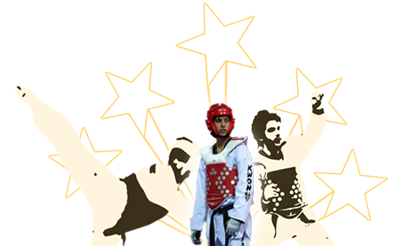
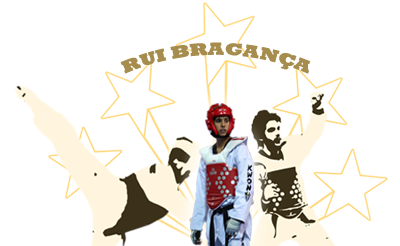
AJTG theme is now final!

Changed region(s): [[0.3, 0.1707, 0.78, 0.313]]

diff --git a/site_files/public/stylesheets/themes/ajtg/frontend.css b/site_files/public/stylesheets/themes/ajtg/frontend.css
@@ -1,1 +1,1 @@
-div.textile-body{font-size:13px;margin:0 10px}div.textile-body a{border-bottom:2px solid #333}div.textile-body h1{font-size:28px}div.textile-body h2{font-size:24px}div.textile-body h3{font-size:20px}div.textile-body h4{font-size:16px}div.textile-body h5{font-size:14px}div.textile-body h1,div.textile-body h2,div.textile-body h3,div.textile-body h4,div.textile-body h5{margin:0 0 15px}div.textile-body h1 a:hover,div.textile-body h2 a:hover,div.textile-body h3 a:hover,div.textile-body h4 a:hover,div.textile-body h5 a:hover{border-bottom:3px solid #333}div.textile-body p{margin:0 0 15px;text-align:justify}div.textile-body table{font-size:13px;line-height:25px;border-collapse:collapse;width:100%}div.textile-body table td{border-bottom:1px solid #ddd;padding:5px 10px;margin:0 10px}div.textile-body table th{background-color:#333;border-bottom:solid 1px #ddd;font-weight:bold;padding:5px 10px;margin:0 10px;color:#fff;text-shadow:0 1px 0 #000}div.textile-body table tr:first-child{border-top:1px solid #ddd}div.textile-body strong{font-weight:bold}div.textile-body cite,div.textile-body em{font-style:italic}div.textile-body blockquote{margin:30px;color:#777;font-style:italic}div.textile-body ul{list-style-type:disc;list-style-position:inside}div.textile-body ol{list-style-type:decimal;list-style-position:inside}div.textile-body li{margin:10px 30px}div.textile-body pre,div.textile-body code,div.textile-body tt{font-family:"lucida console",Monospace}body{background-color:#ffb600;background-image:url("/stylesheets/themes/ajtg/images/paper.png");background-repeat:repeat}h2.title,h3.archives-month-title{margin:0 0 15px}h2.title a:hover,h3.archives-month-title a:hover{border-bottom:3px solid #333}hr{background-color:#ddd;border:none;clear:left;height:1px;margin:15px 0}div#header{height:246px;margin:10px auto 0;width:980px}div#logo{background:url("/stylesheets/themes/ajtg/images/ajtg_logo.png") no-repeat;float:left;height:155px;margin:55px 0 0;width:348px}div#stars{background-image:url("/stylesheets/themes/ajtg/images/stars.png");background-repeat:no-repeat;float:right;height:246px;width:386px}div#stars div#left{float:left;height:246px;width:190px}div#stars div#center{float:left;height:246px;width:50px}div#stars div#right{float:left;height:246px;width:141px}div#wrapper{background-color:#fff;border:1px solid #444;margin:auto;width:980px}div#menu{background:url("/stylesheets/themes/ajtg/images/belt.png") 0 0 no-repeat;height:56px;left:-15px;position:relative;top:-5px;width:1012px}div#menu div#navigation{float:left;padding:18px 14px}div#menu div#navigation ul li{display:inline}div#menu div#navigation ul li a{color:#fff;font-weight:bold;text-shadow:1px 2px 0 #000;border:none;padding:12px 20px}div#menu div#navigation ul li a:hover{color:#ffd700}div#menu span.options{color:#fff;float:right;font-weight:bold;padding:18px 34px;text-shadow:1px 2px 0 #000}div#menu span.options a{color:#fff}div#menu span.options a:hover{color:#ffd700}div#tag-cloud{background-color:#fddf87;border:1px solid #fcd254;margin:0 20px 20px 780px;min-height:100px;padding:10px 25px;position:relative;top:15px;-moz-border-radius:2px 2px 2px 2px;-webkit-border-radius:2px 2px 2px 2px;border-radius:2px 2px 2px 2px;behavior:url("/stylesheets/pie.htc")}div#tag-search-bar{margin:0 0 15px}div#tag-search-bar div#tags{margin:10px}div#content.single{float:left;width:940px;margin:20px 20px 30px}div#content.double{float:left;width:745px;margin:20px 20px 30px}div.content-body{margin:0 10px}div#user-info,div#user-invite{margin:15px 10px}div#footer{margin:25px}div#footer a:hover{border-bottom:2px solid #333}div#flash{background-image:url("/images/dark_transparency.png");border-top:1px solid #222;bottom:0;left:0;padding:15px 0;position:fixed;width:100%;z-index:1}div#flash div.message{margin:0 0 0 30px}div#flash div.message p{margin:0 70px;padding:20px}div#flash div.message.error{background:url("/stylesheets/themes/nebaum/images/flash/error.png") no-repeat 0 50%}div#flash div.message.warning{background:url("/stylesheets/themes/nebaum/images/flash/warning.png") no-repeat 0 50%}div#flash div.message.info,div#flash div.message.notice{background:url("/stylesheets/themes/nebaum/images/flash/notice.png") no-repeat 0 50%}ul.list li{margin:15px 0}dl.list{display:inline-block}dl.list dd{float:left;padding:1px 0;margin:5px 0}dl.list dt{clear:left;color:#555;float:left;font-weight:bold;padding:0;margin:5px 0;width:150px}div#archives{float:right;margin:10px}div#archives a:hover{border-bottom:3px solid #333}ul.archives-month{margin:0 0 0 10px}ul.archives-month li{margin:0 0 5px}ul.archives-month li a:hover{border-bottom:2px solid #333}div.social-buttons{float:right;margin:0 10px 10px}div.social-buttons div.addthis_toolbox{display:inline}div#announcements{border:1px solid #444;overflow:hidden;margin:20px auto;position:relative;width:940px;-moz-border-radius:2px 2px 2px 2px;-webkit-border-radius:2px 2px 2px 2px;border-radius:2px 2px 2px 2px;behavior:url("/stylesheets/pie.htc")}div#announcements a:hover{border:none}div.announcement-tail{display:none}div#announcement-numbers{background:url("/images/dark_transparency.png");cursor:default;padding:10px 10px 13px 13px;position:absolute;left:0;-moz-border-radius:0 0 2px 0;-webkit-border-radius:0 0 2px 0;border-radius:0 0 2px 0;behavior:url("/stylesheets/pie.htc")}div.announcement img{height:250px;width:940px}div.announcement-text{background:url("/images/dark_transparency.png");bottom:0;padding:14px 12px 12px 14px;position:absolute;right:0;width:300px;-moz-border-radius:2px 0 0 0;-webkit-border-radius:2px 0 0 0;border-radius:2px 0 0 0;behavior:url("/stylesheets/pie.htc")}div.announcement-text p.title{padding:0 0 15px}div.post{margin:0 0 30px}div.post-image{float:left;margin:0 15px 5px 0}div.meta{clear:both;background-color:#eee;margin:0 10px;padding:10px;-moz-border-radius:2px 2px 2px 2px;-webkit-border-radius:2px 2px 2px 2px;border-radius:2px 2px 2px 2px;behavior:url("/stylesheets/pie.htc")}div.meta a:hover{border-bottom:2px solid #333}div.avatar{float:left;margin-right:20px}div.avatar img{border:1px solid #999}span.comment-meta{clear:both;display:block}div.new-comment{padding:0 15px}ol#comment-list{margin:20px 0}ol#comment-list p{padding:15px 0 0 72px}button,a.button,input.button{background-color:#e9e9e9;border:1px solid #aaa;cursor:pointer;float:left;background:-webkit-gradient(linear, left top, left bottom, from(#f9f9f9), to(#e9e9e9));background:-webkit-linear-gradient(#f9f9f9, #e9e9e9);background:-moz-linear-gradient(top, #f9f9f9, #e9e9e9);background:-o-linear-gradient(#f9f9f9, #e9e9e9);filter:progid:DXImageTransform.Microsoft.gradient(startColorstr=$start-color, endColorstr=$end-color);-ms-filter:"progid:DXImageTransform.Microsoft.gradient(startColorstr=#f9f9f9, endColorstr=#e9e9e9)";background:linear-gradient(#f9f9f9, #e9e9e9);-moz-border-radius:4px 4px 4px 4px;-webkit-border-radius:4px 4px 4px 4px;border-radius:4px 4px 4px 4px;behavior:url("/stylesheets/pie.htc")}button:active,a.button:active,input.button:active{background:-webkit-gradient(linear, left top, left bottom, from(#e9e9e9), to(#f9f9f9));background:-webkit-linear-gradient(#e9e9e9, #f9f9f9);background:-moz-linear-gradient(top, #e9e9e9, #f9f9f9);background:-o-linear-gradient(#e9e9e9, #f9f9f9);filter:progid:DXImageTransform.Microsoft.gradient(startColorstr=$start-color, endColorstr=$end-color);-ms-filter:"progid:DXImageTransform.Microsoft.gradient(startColorstr=#e9e9e9, endColorstr=#f9f9f9)";background:linear-gradient(#e9e9e9, #f9f9f9);behavior:url("/stylesheets/pie.htc")}a.button{padding:6px 10px}input.button{padding:5px 10px !important}button{padding:5px 10px}ul.buttons{margin:15px 0}ul.buttons a{margin:0 10px 0 0}*:first-child + html input[type]{padding:2px 10px 3px}a.google_ico,a.yahoo_ico{margin:0 0 15px 0;width:90%}.selfclear{display:inline-block;display:block}.selfclear:after{content:".";display:block;height:0;clear:both;visibility:hidden}body{color:#2e2e2e;font:12px Verdana,HelveticaNeue,Helvetica,Arial,Sans-Serif}a,a:active,a:link,a:visited{color:#2e2e2e;text-decoration:none}a:hover{color:#555}h2.title{font-size:24px}h3.archives-month-title{font-size:20px}p.inline-errors{font-size:11px}div#header span.site-title{font-weight:bold}div.announcement-text{color:#fff;text-align:justify}div.announcement-text p.title{font-size:14px;font-weight:bold}div#announcement-numbers{color:#fff;text-align:justify}div#announcement-numbers a,div#announcement-numbers span{color:#fff;text-align:justify}div#announcement-numbers a:hover,div#announcement-numbers span:hover{color:#333}div#tag-cloud a:hover{border-bottom:2px solid #333}div#tag-cloud a.nube1{font-size:10px}div#tag-cloud a.nube2{font-size:12px}div#tag-cloud a.nube3{font-size:14px}div#tag-cloud a.nube4{font-size:16px}div#tag-cloud a.nube5{font-size:18px}div#tag-cloud a.nube6{font-size:20px}div#tag-cloud a.selected{font-weight:bold}div#tag-search-bar{font-size:14px}div#tag-search-bar span#tagged-with{font-size:16px}div#tag-search-bar span#clear-link{font-size:12px}div.meta li{line-height:18px}div#flash div.message p{color:#fff;font-size:20px;font-weight:bold}div#archives{font-size:14px}ul.archives-month{font-size:14px}div#footer{color:#222;text-align:center}div#footer a{color:#333;font-weight:bold}ol#comment-list a.author{font-weight:bold}ol#comment-list span.comment-meta{text-align:right}div#social-buttons{text-align:right}button,a.button{text-decoration:none}button,input.button{line-height:16px}button,a.button,input.button{color:#2e2e2e;font-size:12px !important;font-weight:bold !important;text-align:center}button.positive:hover,a.positive:hover,input.positive:hover{color:#591}button.negative:hover,a.negative:hover,input.negative:hover{color:#d32}.male{background:url("/images/icons/male.png") 0 50% no-repeat;padding:0 0 0 20px}.female{background:url("/images/icons/female.png") 0 50% no-repeat;padding:0 0 0 20px}div#tags a{background:url("/images/icons/tag_delete.png") no-repeat 0 50%;padding:0 10px 0 20px}fieldset.buttons li a.google_ico{background-color:#f5f5f5;background-image:url("/images/google.png");background-repeat:no-repeat;background-position:5px 5px}fieldset.buttons li a.yahoo_ico{background-color:#f5f5f5;background-image:url("/images/yahoo.png");background-repeat:no-repeat;background-position:5px 5px}
+div.textile-body{font-size:13px;margin:0 10px}div.textile-body a{border-bottom:2px solid #333}div.textile-body h1{font-size:28px}div.textile-body h2{font-size:24px}div.textile-body h3{font-size:20px}div.textile-body h4{font-size:16px}div.textile-body h5{font-size:14px}div.textile-body h1,div.textile-body h2,div.textile-body h3,div.textile-body h4,div.textile-body h5{margin:0 0 15px}div.textile-body h1 a:hover,div.textile-body h2 a:hover,div.textile-body h3 a:hover,div.textile-body h4 a:hover,div.textile-body h5 a:hover{border-bottom:3px solid #333}div.textile-body p{margin:0 0 15px;text-align:justify}div.textile-body table{font-size:13px;line-height:25px;border-collapse:collapse;width:100%}div.textile-body table td{border-bottom:1px solid #ddd;padding:5px 10px;margin:0 10px}div.textile-body table th{background-color:#333;border-bottom:solid 1px #ddd;font-weight:bold;padding:5px 10px;margin:0 10px;color:#fff;text-shadow:0 1px 0 #000}div.textile-body table tr:first-child{border-top:1px solid #ddd}div.textile-body strong{font-weight:bold}div.textile-body cite,div.textile-body em{font-style:italic}div.textile-body blockquote{margin:30px;color:#777;font-style:italic}div.textile-body ul{list-style-type:disc;list-style-position:inside}div.textile-body ol{list-style-type:decimal;list-style-position:inside}div.textile-body li{margin:10px 30px}div.textile-body pre,div.textile-body code,div.textile-body tt{font-family:"lucida console",Monospace}body{background-color:#ffb600;background-image:url("/stylesheets/themes/ajtg/images/paper.png");background-repeat:repeat}h2.title,h3.archives-month-title{margin:0 0 15px}h2.title a:hover,h3.archives-month-title a:hover{border-bottom:3px solid #333}hr{background-color:#ddd;border:none;clear:left;height:1px;margin:15px 0}div#header{height:246px;margin:10px auto 0;width:980px}div#logo{background:url("/stylesheets/themes/ajtg/images/ajtg_logo.png") no-repeat;float:left;height:155px;margin:55px 0 0;width:348px}div#stars{background-image:url("/stylesheets/themes/ajtg/images/stars.png");background-repeat:no-repeat;float:right;height:246px;width:386px}div#stars div#left{float:left;height:246px;width:190px}div#stars div#center{float:left;height:246px;width:50px}div#stars div#right{float:left;height:246px;width:141px}div#stars.jose{background-image:url("/stylesheets/themes/ajtg/images/jose.png")}div#stars.rui{background-image:url("/stylesheets/themes/ajtg/images/rui.png")}div#stars.nuno{background-image:url("/stylesheets/themes/ajtg/images/nuno.png")}div#wrapper{background-color:#fff;border:1px solid #444;margin:auto;width:980px}div#menu{background:url("/stylesheets/themes/ajtg/images/belt.png") 0 0 no-repeat;height:56px;left:-15px;position:relative;top:-5px;width:1012px}div#menu div#navigation{float:left;padding:18px 14px}div#menu div#navigation ul li{display:inline}div#menu div#navigation ul li a{color:#fff;font-weight:bold;text-shadow:1px 2px 0 #000;border:none;padding:12px 20px}div#menu div#navigation ul li a:hover{color:#ffd700}div#menu span.options{color:#fff;float:right;font-weight:bold;padding:18px 34px;text-shadow:1px 2px 0 #000}div#menu span.options a{color:#fff}div#menu span.options a:hover{color:#ffd700}div#tag-cloud{background-color:#fddf87;border:1px solid #fcd254;margin:0 20px 20px 780px;min-height:100px;padding:10px 25px;position:relative;top:15px;-moz-border-radius:2px 2px 2px 2px;-webkit-border-radius:2px 2px 2px 2px;border-radius:2px 2px 2px 2px;behavior:url("/stylesheets/pie.htc")}div#tag-search-bar{margin:0 0 15px}div#tag-search-bar div#tags{margin:10px}div#content.single{float:left;width:940px;margin:20px 20px 30px}div#content.double{float:left;width:745px;margin:20px 20px 30px}div.content-body{margin:0 10px}div#user-info,div#user-invite{margin:15px 10px}div#footer{margin:25px}div#footer a:hover{border-bottom:2px solid #333}div#flash{background-image:url("/images/dark_transparency.png");border-top:1px solid #222;bottom:0;left:0;padding:15px 0;position:fixed;width:100%;z-index:1}div#flash div.message{margin:0 0 0 30px}div#flash div.message p{margin:0 70px;padding:20px}div#flash div.message.error{background:url("/stylesheets/themes/nebaum/images/flash/error.png") no-repeat 0 50%}div#flash div.message.warning{background:url("/stylesheets/themes/nebaum/images/flash/warning.png") no-repeat 0 50%}div#flash div.message.info,div#flash div.message.notice{background:url("/stylesheets/themes/nebaum/images/flash/notice.png") no-repeat 0 50%}ul.list li{margin:15px 0}dl.list{display:inline-block}dl.list dd{float:left;padding:1px 0;margin:5px 0}dl.list dt{clear:left;color:#555;float:left;font-weight:bold;padding:0;margin:5px 0;width:150px}div#archives{float:right;margin:10px}div#archives a:hover{border-bottom:3px solid #333}ul.archives-month{margin:0 0 0 10px}ul.archives-month li{margin:0 0 5px}ul.archives-month li a:hover{border-bottom:2px solid #333}div.social-buttons{float:right;margin:0 10px 10px}div.social-buttons div.addthis_toolbox{display:inline}div#announcements{border:1px solid #444;overflow:hidden;margin:20px auto;position:relative;width:940px;-moz-border-radius:2px 2px 2px 2px;-webkit-border-radius:2px 2px 2px 2px;border-radius:2px 2px 2px 2px;behavior:url("/stylesheets/pie.htc")}div#announcements a:hover{border:none}div.announcement-tail{display:none}div#announcement-numbers{background:url("/images/dark_transparency.png");cursor:default;padding:10px 10px 13px 13px;position:absolute;left:0;-moz-border-radius:0 0 2px 0;-webkit-border-radius:0 0 2px 0;border-radius:0 0 2px 0;behavior:url("/stylesheets/pie.htc")}div.announcement img{height:250px;width:940px}div.announcement-text{background:url("/images/dark_transparency.png");bottom:0;padding:14px 12px 12px 14px;position:absolute;right:0;width:300px;-moz-border-radius:2px 0 0 0;-webkit-border-radius:2px 0 0 0;border-radius:2px 0 0 0;behavior:url("/stylesheets/pie.htc")}div.announcement-text p.title{padding:0 0 15px}div.post{margin:0 0 30px}div.post-image{float:left;margin:0 15px 5px 0}div.meta{clear:both;background-color:#eee;margin:0 10px;padding:10px;-moz-border-radius:2px 2px 2px 2px;-webkit-border-radius:2px 2px 2px 2px;border-radius:2px 2px 2px 2px;behavior:url("/stylesheets/pie.htc")}div.meta a:hover{border-bottom:2px solid #333}div.avatar{float:left;margin-right:20px}div.avatar img{border:1px solid #999}span.comment-meta{clear:both;display:block}div.new-comment{padding:0 15px}ol#comment-list{margin:20px 0}ol#comment-list p{padding:15px 0 0 72px}button,a.button,input.button{background-color:#e9e9e9;border:1px solid #aaa;cursor:pointer;float:left;background:-webkit-gradient(linear, left top, left bottom, from(#f9f9f9), to(#e9e9e9));background:-webkit-linear-gradient(#f9f9f9, #e9e9e9);background:-moz-linear-gradient(top, #f9f9f9, #e9e9e9);background:-o-linear-gradient(#f9f9f9, #e9e9e9);filter:progid:DXImageTransform.Microsoft.gradient(startColorstr=$start-color, endColorstr=$end-color);-ms-filter:"progid:DXImageTransform.Microsoft.gradient(startColorstr=#f9f9f9, endColorstr=#e9e9e9)";background:linear-gradient(#f9f9f9, #e9e9e9);-moz-border-radius:4px 4px 4px 4px;-webkit-border-radius:4px 4px 4px 4px;border-radius:4px 4px 4px 4px;behavior:url("/stylesheets/pie.htc")}button:active,a.button:active,input.button:active{background:-webkit-gradient(linear, left top, left bottom, from(#e9e9e9), to(#f9f9f9));background:-webkit-linear-gradient(#e9e9e9, #f9f9f9);background:-moz-linear-gradient(top, #e9e9e9, #f9f9f9);background:-o-linear-gradient(#e9e9e9, #f9f9f9);filter:progid:DXImageTransform.Microsoft.gradient(startColorstr=$start-color, endColorstr=$end-color);-ms-filter:"progid:DXImageTransform.Microsoft.gradient(startColorstr=#e9e9e9, endColorstr=#f9f9f9)";background:linear-gradient(#e9e9e9, #f9f9f9);behavior:url("/stylesheets/pie.htc")}a.button{padding:6px 10px}input.button{padding:5px 10px !important}button{padding:5px 10px}ul.buttons{margin:15px 0}ul.buttons a{margin:0 10px 0 0}*:first-child + html input[type]{padding:2px 10px 3px}a.google_ico,a.yahoo_ico{margin:0 0 15px 0;width:90%}.selfclear{display:inline-block;display:block}.selfclear:after{content:".";display:block;height:0;clear:both;visibility:hidden}body{color:#2e2e2e;font:12px Verdana,HelveticaNeue,Helvetica,Arial,Sans-Serif}a,a:active,a:link,a:visited{color:#2e2e2e;text-decoration:none}a:hover{color:#555}h2.title{font-size:24px}h3.archives-month-title{font-size:20px}p.inline-errors{font-size:11px}div#header span.site-title{font-weight:bold}div.announcement-text{color:#fff;text-align:justify}div.announcement-text p.title{font-size:14px;font-weight:bold}div#announcement-numbers{color:#fff;text-align:justify}div#announcement-numbers a,div#announcement-numbers span{color:#fff;text-align:justify}div#announcement-numbers a:hover,div#announcement-numbers span:hover{color:#333}div#tag-cloud a:hover{border-bottom:2px solid #333}div#tag-cloud a.nube1{font-size:10px}div#tag-cloud a.nube2{font-size:12px}div#tag-cloud a.nube3{font-size:14px}div#tag-cloud a.nube4{font-size:16px}div#tag-cloud a.nube5{font-size:18px}div#tag-cloud a.nube6{font-size:20px}div#tag-cloud a.selected{font-weight:bold}div#tag-search-bar{font-size:14px}div#tag-search-bar span#tagged-with{font-size:16px}div#tag-search-bar span#clear-link{font-size:12px}div.meta li{line-height:18px}div#flash div.message p{color:#fff;font-size:20px;font-weight:bold}div#archives{font-size:14px}ul.archives-month{font-size:14px}div#footer{color:#222;text-align:center}div#footer a{color:#333;font-weight:bold}ol#comment-list a.author{font-weight:bold}ol#comment-list span.comment-meta{text-align:right}div#social-buttons{text-align:right}button,a.button{text-decoration:none}button,input.button{line-height:16px}button,a.button,input.button{color:#2e2e2e;font-size:12px !important;font-weight:bold !important;text-align:center}button.positive:hover,a.positive:hover,input.positive:hover{color:#591}button.negative:hover,a.negative:hover,input.negative:hover{color:#d32}.male{background:url("/images/icons/male.png") 0 50% no-repeat;padding:0 0 0 20px}.female{background:url("/images/icons/female.png") 0 50% no-repeat;padding:0 0 0 20px}div#tags a{background:url("/images/icons/tag_delete.png") no-repeat 0 50%;padding:0 10px 0 20px}fieldset.buttons li a.google_ico{background-color:#f5f5f5;background-image:url("/images/google.png");background-repeat:no-repeat;background-position:5px 5px}fieldset.buttons li a.yahoo_ico{background-color:#f5f5f5;background-image:url("/images/yahoo.png");background-repeat:no-repeat;background-position:5px 5px}

diff --git a/site_files/public/javascripts/jquery.url.js b/site_files/public/javascripts/jquery.url.js
@@ -1,0 +1,164 @@
+// JQuery URL Parser plugin - https://github.com/allmarkedup/jQuery-URL-Parser
+// Written by Mark Perkins, mark@allmarkedup.com
+// License: http://unlicense.org/ (i.e. do what you want with it!)
+
+;(function($, undefined) {
+    
+    var tag2attr = {
+        a       : 'href',
+        img     : 'src',
+        form    : 'action',
+        base    : 'href',
+        script  : 'src',
+        iframe  : 'src',
+        link    : 'href'
+    },
+    
+	key = ["source","protocol","authority","userInfo","user","password","host","port","relative","path","directory","file","query","fragment"], // keys available to query
+	
+	aliases = { "anchor" : "fragment" }, // aliases for backwards compatability
+
+	parser = {
+		strict  : /^(?:([^:\/?#]+):)?(?:\/\/((?:(([^:@]*):?([^:@]*))?@)?([^:\/?#]*)(?::(\d*))?))?((((?:[^?#\/]*\/)*)([^?#]*))(?:\?([^#]*))?(?:#(.*))?)/,  //less intuitive, more accurate to the specs
+		loose   :  /^(?:(?![^:@]+:[^:@\/]*@)([^:\/?#.]+):)?(?:\/\/)?((?:(([^:@]*):?([^:@]*))?@)?([^:\/?#]*)(?::(\d*))?)(((\/(?:[^?#](?![^?#\/]*\.[^?#\/.]+(?:[?#]|$)))*\/?)?([^?#\/]*))(?:\?([^#]*))?(?:#(.*))?)/ // more intuitive, fails on relative paths and deviates from specs
+	},
+	
+	querystring_parser = /(?:^|&|;)([^&=;]*)=?([^&;]*)/g, // supports both ampersand and semicolon-delimted query string key/value pairs
+	
+	fragment_parser = /(?:^|&|;)([^&=;]*)=?([^&;]*)/g; // supports both ampersand and semicolon-delimted fragment key/value pairs
+	
+	function parseUri( url, strictMode )
+	{
+		var str = decodeURI( url ),
+		    res   = parser[ strictMode || false ? "strict" : "loose" ].exec( str ),
+		    uri = { attr : {}, param : {}, seg : {} },
+		    i   = 14;
+		
+		while ( i-- )
+		{
+			uri.attr[ key[i] ] = res[i] || "";
+		}
+		
+		// build query and fragment parameters
+		
+		uri.param['query'] = {};
+		uri.param['fragment'] = {};
+		
+		uri.attr['query'].replace( querystring_parser, function ( $0, $1, $2 ){
+			if ($1)
+			{
+				uri.param['query'][$1] = $2;
+			}
+		});
+		
+		uri.attr['fragment'].replace( fragment_parser, function ( $0, $1, $2 ){
+			if ($1)
+			{
+				uri.param['fragment'][$1] = $2;
+			}
+		});
+				
+		// split path and fragement into segments
+		
+        uri.seg['path'] = uri.attr.path.replace(/^\/+|\/+$/g,'').split('/');
+        
+        uri.seg['fragment'] = uri.attr.fragment.replace(/^\/+|\/+$/g,'').split('/');
+        
+        // compile a 'base' domain attribute
+        
+        uri.attr['base'] = uri.attr.host ? uri.attr.protocol+"://"+uri.attr.host + (uri.attr.port ? ":"+uri.attr.port : '') : '';
+        
+		return uri;
+	};
+	
+	function getAttrName( elm )
+	{
+		var tn = elm.tagName;
+		if ( tn !== undefined ) return tag2attr[tn.toLowerCase()];
+		return tn;
+	}
+	
+	$.fn.url = function( strictMode )
+	{
+	    var url = '';
+	    
+	    if ( this.length )
+	    {
+	        url = $(this).attr( getAttrName(this[0]) ) || '';
+	    }
+	    
+        return $.url({ url : url, strict : strictMode });
+	};
+	
+	$.url = function( opts )
+	{
+	    var url     = '',
+	        strict  = false;
+
+	    if ( typeof opts === 'string' )
+	    {
+	        url = opts;
+	    }
+	    else
+	    {
+	        opts = opts || {};
+	        strict = opts.strict || strict;
+            url = opts.url === undefined ? window.location.toString() : opts.url;
+	    }
+	    	            
+        return {
+            
+            data : parseUri(url, strict),
+            
+            // get various attributes from the URI
+            attr : function( attr )
+            {
+                attr = aliases[attr] || attr;
+                return attr !== undefined ? this.data.attr[attr] : this.data.attr;
+            },
+            
+            // return query string parameters
+            param : function( param )
+            {
+                return param !== undefined ? this.data.param.query[param] : this.data.param.query;
+            },
+            
+            // return fragment parameters
+            fparam : function( param )
+            {
+                return param !== undefined ? this.data.param.fragment[param] : this.data.param.fragment;
+            },
+            
+            // return path segments
+            segment : function( seg )
+            {
+                if ( seg === undefined )
+                {
+                    return this.data.seg.path;                    
+                }
+                else
+                {
+                    seg = seg < 0 ? this.data.seg.path.length + seg : seg - 1; // negative segments count from the end
+                    return this.data.seg.path[seg];                    
+                }
+            },
+            
+            // return fragment segments
+            fsegment : function( seg )
+            {
+                if ( seg === undefined )
+                {
+                    return this.data.seg.fragment;                    
+                }
+                else
+                {
+                    seg = seg < 0 ? this.data.seg.fragment.length + seg : seg - 1; // negative segments count from the end
+                    return this.data.seg.fragment[seg];                    
+                }
+            }
+            
+        };
+        
+	};
+	
+})(jQuery);

diff --git a/site_files/app/themes/sass/themes/ajtg/frontend-structure.sass b/site_files/app/themes/sass/themes/ajtg/frontend-structure.sass
@@ -61,6 +61,18 @@ div#stars
     width: 141px
 
 
+div#stars.jose
+  background-image: url("/stylesheets/themes/ajtg/images/jose.png")
+
+
+div#stars.rui
+  background-image: url("/stylesheets/themes/ajtg/images/rui.png")
+
+
+div#stars.nuno
+  background-image: url("/stylesheets/themes/ajtg/images/nuno.png")
+
+
 div#wrapper
   background-color: #FFF
   border: 1px solid #444
